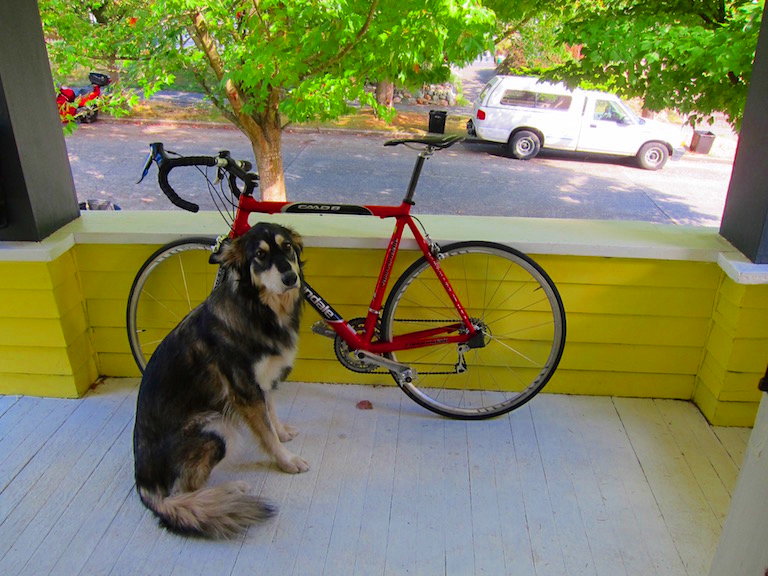
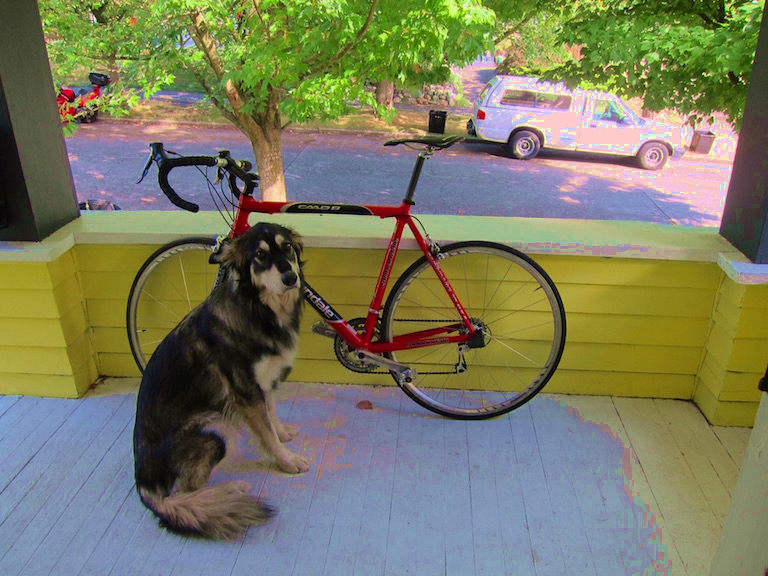
Updated header files + Outputs added

diff --git a/tryit.py b/tryit.py
@@ -26,10 +26,28 @@ save_image(im, "doglight_fixed")
 # 6-7. Colorspace and saturation
 im = load_image("data/dog.jpg")
 rgb_to_hsv(im)
-#shift_image(im, 1, .2)
-scale_image(im, 1, 2)
+shift_image(im, 1, .2)
 clamp_image(im)
 hsv_to_rgb(im)
 save_image(im, "dog_saturated")
+
+# 8. Scale Image
+im = load_image("data/dog.jpg")
+rgb_to_hsv(im)
+scale_image(im, 1, 2)
+clamp_image(im)
+hsv_to_rgb(im)
+save_image(im, "dog_scaled")
+
+# 9. RGB to LUV
+im = load_image("data/dog.jpg")
+rgb_to_xyz(im)
+save_image(im, "rgb2xyz")
+xyz_to_luv(im)
+save_image(im, "xyz2luv")
+luv_to_xyz(im)
+save_image(im, "luv2xyz")
+xyz_to_rgb(im)
+save_image(im, "xyz2rgb")
 
 

diff --git a/uwimg.py b/uwimg.py
@@ -43,6 +43,18 @@ rgb_to_hsv.argtypes = [IMAGE]
 hsv_to_rgb = lib.hsv_to_rgb
 hsv_to_rgb.argtypes = [IMAGE]
 
+rgb_to_xyz = lib.rgb_to_xyz
+rgb_to_xyz.argtypes = [IMAGE]
+
+xyz_to_luv = lib.xyz_to_luv
+xyz_to_luv.argtypes = [IMAGE]
+
+luv_to_xyz = lib.luv_to_xyz
+luv_to_xyz.argtypes = [IMAGE]
+
+xyz_to_rgb = lib.xyz_to_rgb
+xyz_to_rgb.argtypes = [IMAGE]
+
 shift_image = lib.shift_image
 shift_image.argtypes = [IMAGE, c_int, c_float]
 

diff --git a/src/image.h b/src/image.h
@@ -18,6 +18,11 @@ void shift_image(image im, int c, float v);
 void clamp_image(image im);
 void scale_image(image im, int c, float v);
 
+void rgb_to_xyz(image im);
+void xyz_to_luv(image im);
+void luv_to_xyz(image im);
+void xyz_to_rgb(image im);
+
 // Loading and saving
 image make_image(int w, int h, int c);
 image load_image(char *filename);
